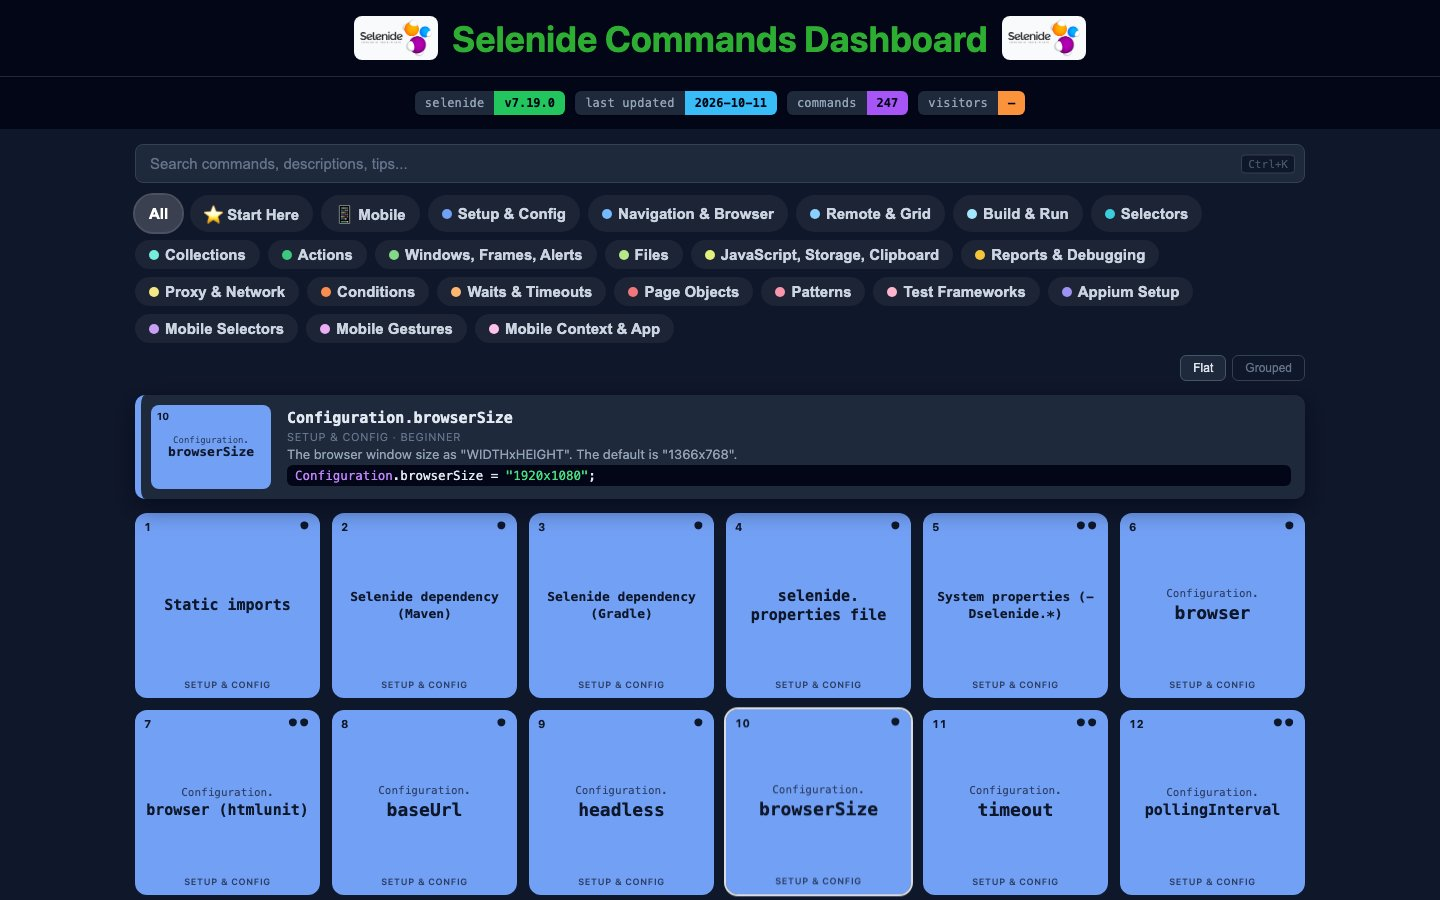
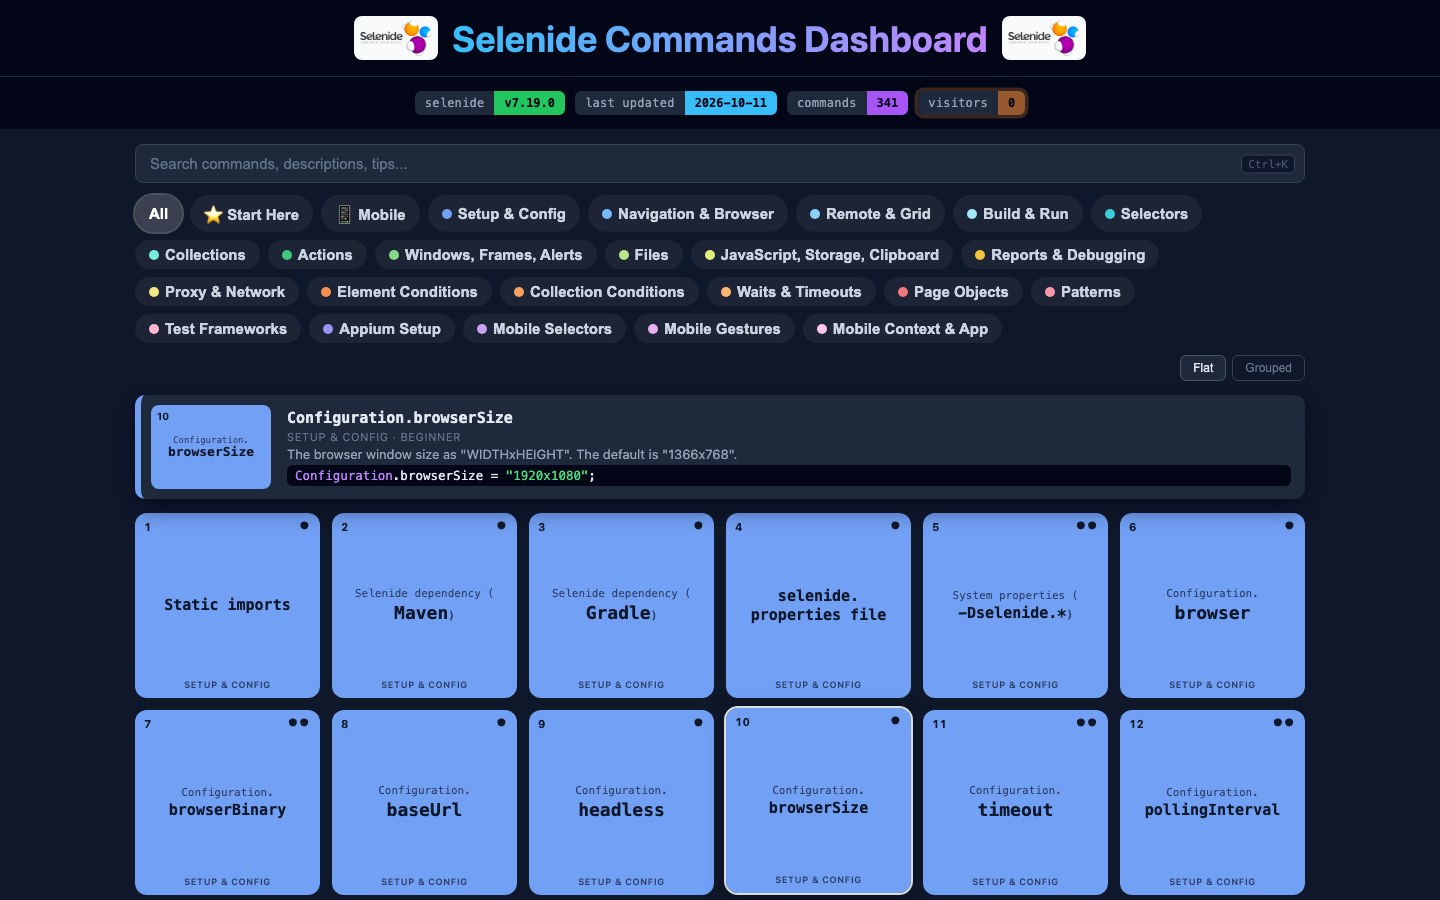
update readme

diff --git a/docs/handover-supabase.md b/docs/handover-supabase.md
@@ -4,64 +4,58 @@ For a fresh session. Read this, then `CLAUDE.md`, then plan Task 8.
 
 ## Where the project stands
 
-- Branch `develop`, pushed to `origin/develop`. 247 entries, 21 categories. The cheat sheet is
-  complete and usable. `master` is not on the remote yet (see "Branches" below).
-- Analytics are **off**. The user deferred all Supabase work ("let's worry about the supabase stuff
-  later, remind me to fix those stuff, keep placeholders"). The user must be reminded of this
-  at the end of major work.
-- Nothing has ever run against the live Supabase project from this repo.
+- Branch `develop`, with `master` also on the remote. 341 entries, 22 categories. The cheat sheet is
+  complete and usable.
+- The **visitor counter is live** against the shared Supabase project, using Selenide-only objects
+  (`selenide_visits`, `increment_selenide_visits`, Edge Function `increment-selenide-visitor`).
+- **Command-view tracking is still off** (the Popular filter and the fire badge). The user deferred it
+  ("let's worry about the supabase stuff later, remind me to fix those stuff, keep placeholders").
+  The user must be reminded of this at the end of major work.
 
-## Why it is off (do not flip the flags early)
+## Why command views are off (do not flip the flag early)
 
-The client code was copied from the Playwright cheat sheet and still points at **that site's**
-live project (`tilbhgcncnwibnfgebkg.supabase.co`) and its tables (`visits`, `command_views`).
-Turning analytics on now would add Selenide visitors and command opens to the Playwright
-site's counts.
+`js/popular-commands.js` was copied from the Playwright cheat sheet and still points at **that
+site's** table (`command_views`) and Edge Function (`increment-command-view`) in the shared project
+(`tilbhgcncnwibnfgebkg.supabase.co`). Turning it on now would add Selenide command opens to the
+Playwright site's counts.
 
 ## Current state in the repo
 
 | Item | State |
 |---|---|
-| `js/popular-commands.js` | `export const ENABLED = false;`, `SUPABASE PLACEHOLDER` comment, early returns |
-| `js/visitor-counter.js` | local `ENABLED = false`, early return, same comment |
-| `js/visitor-display.js` | local `ENABLED = false`, early return, same comment |
-| `js/app.js:262` | Popular filter shows only when `popularCmds.ENABLED` |
-| Visitor badge | shows `—` while off |
-| `tests/popular-commands.spec.js`, visitor tests in `tests/meta-bar.spec.js` | `test.describe.skip` |
-| `tests/meta-bar.spec.js` `Analytics placeholder` | passes now; proves no request reaches Supabase |
-| `supabase/migrations/0001_visits_counter.sql`, `0002_command_views.sql` | still the **Playwright** names |
-| `supabase/functions/increment-visitor/`, `increment-command-view/` | still the **Playwright** names |
+| `js/popular-commands.js` | `export const ENABLED = false;`, `SUPABASE PLACEHOLDER` comment, early returns, still the **Playwright** names |
+| `js/visitor-counter.js`, `js/visitor-display.js` | live, Selenide names, session and cache keys prefixed `selenide-` |
+| `js/app.js` | Popular filter shows only when `popularCmds.ENABLED` |
+| `tests/popular-commands.spec.js` | `test.describe.skip` |
+| `tests/meta-bar.spec.js` | visitor counter tests active; `Command-view analytics placeholder` passes and proves no command-view request is sent |
+| `supabase/migrations/0001_selenide_visits.sql` | Selenide names, applied |
+| `supabase/migrations/0002_command_views.sql`, `supabase/functions/increment-command-view/` | still the **Playwright** names |
+| `supabase/functions/increment-selenide-visitor/` | Selenide name, deployed |
 
-## What to build (Task 8)
+## What to build (Task 8, command views only)
 
 The full, step-by-step version is in
-`docs/superpowers/plans/2026-10-13-selenide-cheat-sheet.md`, **Task 8** (around line 2165), with
-the design in `docs/superpowers/specs/2026-10-13-selenide-cheat-sheet-design.md` section 8.
+`docs/superpowers/plans/2026-10-13-selenide-cheat-sheet.md`, **Task 8**, with the design in
+`docs/superpowers/specs/2026-10-13-selenide-cheat-sheet-design.md` section 8.
 
 Decision already made: reuse the same Supabase project, with `selenide_`-prefixed objects.
 
 | Kind | Name |
 |---|---|
-| Table | `selenide_visits` |
-| RPC | `increment_selenide_visits()` |
 | Table | `selenide_command_views` |
 | RPC | `increment_selenide_command_view(cmd_id text)` |
-| Edge Function | `increment-selenide-visitor` |
 | Edge Function | `increment-selenide-command-view` |
-| localStorage / sessionStorage keys | `selenide-visitor-counted-session`, `selenide-visitor-count-cache`, `selenide-command-views-cache`, `selenide-cmd-opened:` |
+| localStorage / sessionStorage keys | `selenide-command-views-cache`, `selenide-cmd-opened:` |
 
 Order of work (the plan's order, test first):
-1. Add the catch-all abort route `**tilbhgcncnwibnfgebkg.supabase.co/**` as the first line of both
-   `mockBackends` helpers, so an unmocked request can never reach the live project.
-2. Point the tests at the new names and the new storage keys. Watch them fail.
-3. Rename in the three client files. Watch them pass.
-4. Write the new migrations and Edge Functions. Delete the old Playwright-named ones.
-5. Then the extra steps: set `ENABLED = true` in the three files and remove the placeholder
-   comments, remove `.skip` from the four analytics describes, delete the `Analytics placeholder`
-   describe, replace the "20 commands" fixtures in the popularity tests (the plan has the exact
-   replacement), update the Mobile filter test to expect
-   `['All', '⭐ Start Here', '🔥 Popular', '📱 Mobile']`, and replace the "analytics are off" notes
-   in `CLAUDE.md` and `AGENTS.md`.
+1. Point the popularity tests at the new names and the new storage keys. Watch them fail.
+2. Rename in `js/popular-commands.js`. Watch them pass.
+3. Write the new migration and Edge Function. Delete the old Playwright-named ones.
+4. Then set `ENABLED = true`, remove the placeholder comment, remove `.skip` from the two popularity
+   describes, delete the `Command-view analytics placeholder` describe, replace the "20 commands"
+   fixtures in the popularity tests (the plan has the exact replacement), update the Mobile filter
+   test to expect `['All', '⭐ Start Here', '🔥 Popular', '📱 Mobile']`, and replace the "command
+   views are off" notes in `CLAUDE.md` and `AGENTS.md`.
 
 ## What only the user can do
 
@@ -77,14 +71,6 @@ before flipping `ENABLED`.
 - No em-dashes or en-dashes in command data. No build step, no CDN.
 - Gates: `npm test`, `npm run lint`, `npm run format:check`, `npm run check:links`.
 - Do not push or merge without being asked.
-
-## Branches
-
-Local `master` is still the baseline (a Playwright copy, `4a25ee9`) and is not on the remote.
-To fix: `git checkout master && git merge --ff-only develop && git push -u origin master`, then
-set the default branch and the Pages source in the GitHub settings. CI (`test.yml`,
-`stamp-date.yml`) only runs for `master`, so the analytics tests will not run in CI until this
-is done.
 
 ## Cleanup when finished
 

diff --git a/readme.md b/readme.md
@@ -8,12 +8,14 @@ An interactive browser-based reference for **Selenide** (Java web UI testing) an
 Pinned versions: Selenide **7.19.0**, selenide-appium **7.19.0**, Appium java-client **11.0.0**. Every entry is checked against the sources jars of that release.
 
 ![Dashboard](images/dashboard.jpeg)
-*Grid view -> browse all commands by category and difficulty*
+*Periodic-table style grid -> every command is a tile, coloured by category family, with a live preview panel*
 
 ![Command modal](images/description.jpg)
 *Command modal -> description, code snippet, copy button, and docs link*
 
 ## Features
+- Periodic-table grid: each command is a numbered tile with level dots, a small prefix and a large key
+- Keyboard navigation over the grid (arrow keys, Home, End) and a hover/focus preview panel on desktop
 - Difficulty levels: Beginner, Intermediate, and Advanced
 - Category filter tabs, plus a **Mobile** filter for selenide-appium entries
 - Flat and Grouped view modes
@@ -39,9 +41,16 @@ Setup & Config, Navigation & Browser, Selectors, Actions, Element Conditions, Co
 selenide-commands-cheat-sheet/
 ├── images/
 ├── js/
-│   ├── app.js
+│   ├── app.js              # render, filters, search, modal, meta-bar
 │   ├── highlight.js        # dependency-free Java / shell / XML highlighter
+│   ├── tile.js             # tile anatomy: name split, break points, key size
+│   ├── grid-keys.js        # roving tabindex and arrow keys over the grid
+│   ├── inspector.js        # desktop hover/focus preview panel
+│   ├── visitor-counter.js  # visitor count (Supabase)
+│   ├── visitor-display.js
+│   ├── popular-commands.js # command-view tracking (off for now)
 │   ├── versions.json       # pinned Selenide / selenide-appium / java-client versions
+│   ├── meta.json           # last-updated date, stamped by CI
 │   └── data/
 │       ├── index.js        # imports each category and exports `categories`
 │       ├── config.js ... cli.js              # 18 web categories
@@ -50,7 +59,12 @@ selenide-commands-cheat-sheet/
 │   ├── helpers/
 │   ├── content/            # per-category guards, expected values from the sources jar
 │   ├── cheatsheet.spec.js
+│   ├── grid-cells.spec.js
+│   ├── grid-interactions.spec.js
 │   └── data-integrity.spec.js
+├── supabase/               # visitor counter migration and Edge Function
+├── docs/                   # design specs and implementation plans
+├── .github/workflows/      # test, stamp-date, cheatsheet-sync
 ├── .claude/skills/selenide-release-sync/   # how to sync the data with a new release
 ├── index.html
 ├── style.css
@@ -66,6 +80,7 @@ There is no build step and there are no runtime dependencies.
 npm install
 npm run fetch:sources   # download the pinned sources jars into .cache/sources/
 npm test                # Playwright: chromium, iPhone 16, Pixel 7
+npm run test:scripts    # node:test unit tests for the release-sync scripts
 npm run lint
 npm run format:check
 npm run check:links     # every docs URL and anchor resolves (needs network)

diff --git a/AGENTS.md b/AGENTS.md
@@ -10,5 +10,5 @@ The full project guide lives in [CLAUDE.md](CLAUDE.md). Read it before making ch
 4. **Tests use independent expected values.** Never derive an expected value from the code or data under test. Write the test first and watch it fail.
 5. **Run the gates before finishing:** `npm test`, `npm run lint`, `npm run format:check`, `npm run check:links`.
 6. **Don't commit, push, merge, or open PRs unless asked.**
-7. **Analytics (Supabase) stay off** until the Selenide-specific backend exists.
+7. **Command-view analytics (Supabase) stay off** until the Selenide-specific backend exists. The visitor counter is already live. See `docs/handover-supabase.md`.
 8. To sync with a new Selenide release, follow `.claude/skills/selenide-release-sync/SKILL.md`.
